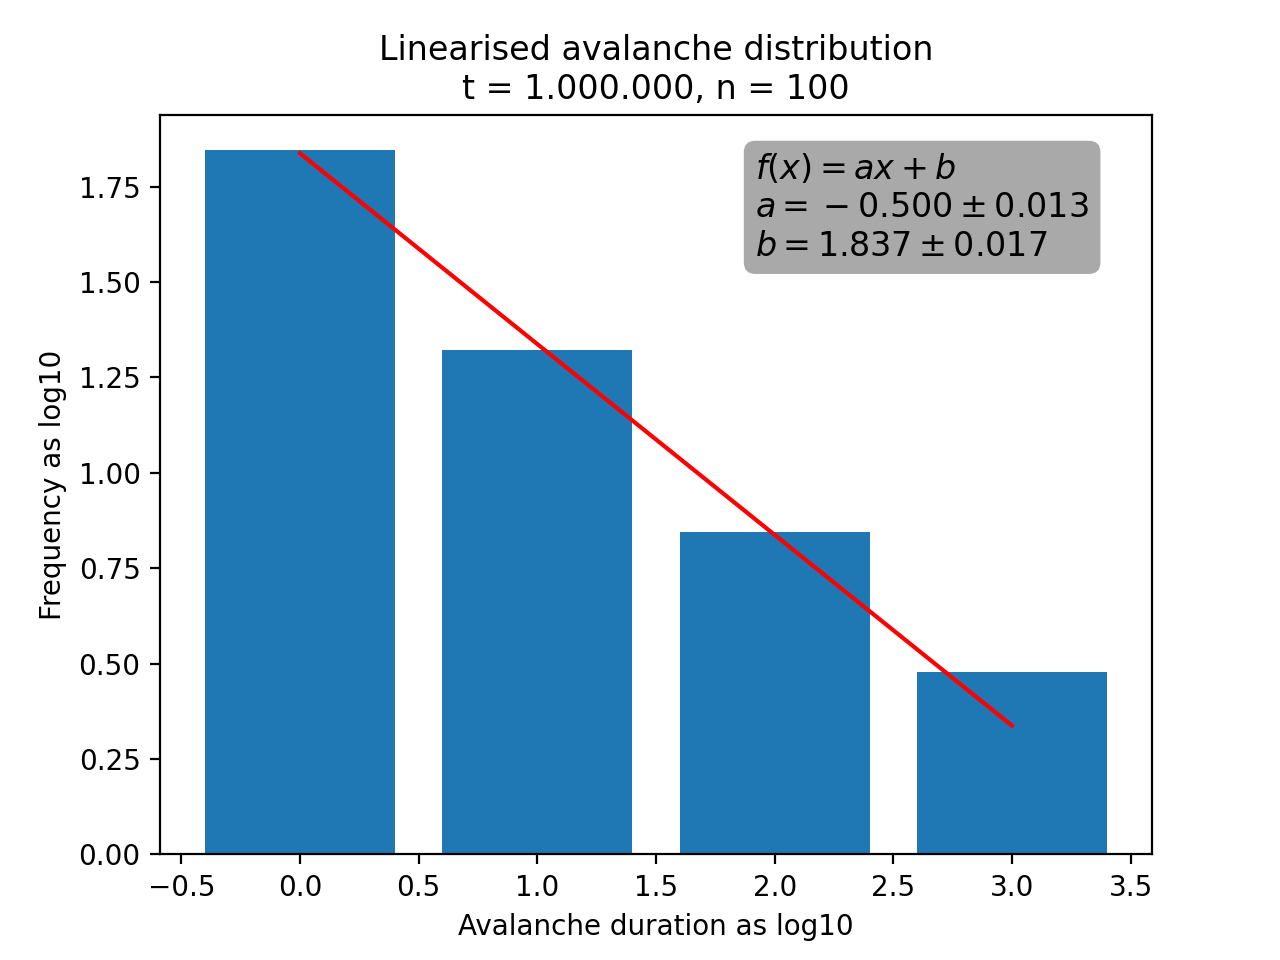
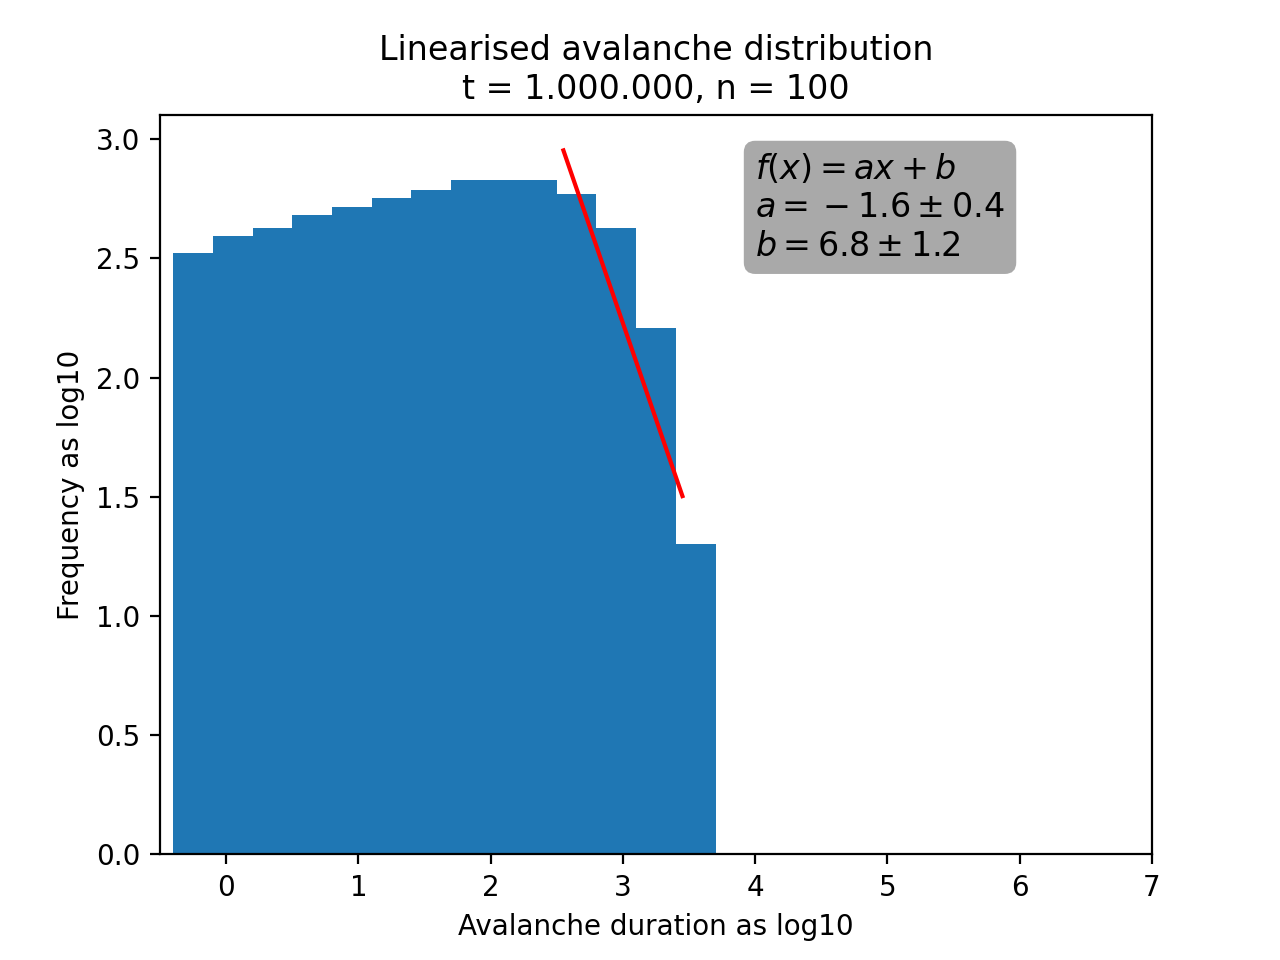
Adjust avalanche definition

diff --git a/baksneppen/model.py b/baksneppen/model.py
@@ -6,13 +6,16 @@ import numpy as np
 from random import random, randint
 
 DEFAULT_SIZE = 16
+DEFAULT_LAMBDA = 0.6
 
 
 class BakSneppenModel:
     """The evolution model of Bak and Sneppen"""
 
-    def __init__(self, size=None):
+    def __init__(self, size=None, critical_lambda=None):
         """Initialise the model"""
+        self.critical_lambda = critical_lambda if critical_lambda is not None \
+                               else DEFAULT_LAMBDA
         self.size = size if size is not None else DEFAULT_SIZE
         self.set_up_simulation()
 
@@ -38,10 +41,12 @@ class BakSneppenModel:
 
         if least_fitness > self.least_fitness:
             self.least_fitness = least_fitness
+
+        if least_fitness < self.critical_lambda:
+            self.avalanche_duration += 1
+        else:
             self.avalanche_durations.append(np.log10(self.avalanche_duration))
             self.avalanche_duration = 1
-        else:
-            self.avalanche_duration += 1
 
         if self.updatemode == 1:
             left_neighbour = weakling_index - 1
@@ -90,5 +95,7 @@ class BakSneppenModel:
             "system size": self.size,
             "species": self.species,
             "fitness over time": np.array(self.fitness_over_time),
-            "avalanche durations": np.array(self.avalanche_durations)
+            # exclude the first value of the avalanches
+            # as it is not representative
+            "avalanche durations": np.array(self.avalanche_durations[1:])
         }

diff --git a/plot_powerlaw.py b/plot_powerlaw.py
@@ -5,7 +5,7 @@ import matplotlib.pyplot as plt
 
 from uncertainties import ufloat
 
-BINS = np.arange(0, 5, 1)
+BINS = np.arange(0, 6, 0.3)
 
 
 def linfunc(x, a, b):
@@ -19,21 +19,25 @@ if __name__ == "__main__":
     ax = fig.add_subplot(111)
 
     count, _ = np.histogram(avalanches, BINS)
-    params, pcov = curve_fit(linfunc, BINS[:-2], np.log10(count[:-1]))
+    nonzero_bins = BINS[np.nonzero(count)]
+    nonzero_count = count[np.nonzero(count)]
+
+    params, pcov = curve_fit(linfunc, nonzero_bins[8:], np.log10(nonzero_count[8:]))
     perr = np.sqrt(np.diag(pcov))
-    ax.bar(BINS[:-1], np.log10(count))
-    ax.plot(BINS[:-1], linfunc(BINS[:-1], *params), zorder=1, color="red")
+    ax.bar(nonzero_bins, np.log10(nonzero_count))
+    ax.plot(nonzero_bins[8:] + 0.15, linfunc(nonzero_bins[8:], *params), zorder=1, color="red")
 
     ax.set_title("Linearised avalanche distribution\nt = 1.000.000, n = 100")
     ax.set_xlabel("Avalanche duration as log10")
     ax.set_ylabel("Frequency as log10")
+    ax.set_xlim(-0.5, 7)
     a, b = ufloat(params[0], perr[0]), ufloat(params[1], perr[1])
     print(a, b)
 
     textstr = '\n'.join((
         "$f(x) = ax + b$",
-        "$a = {}$".format(str(a).replace("+/-", "\\pm")),
-        "$b = {}$".format(str(b).replace("+/-", "\\pm")),
+        "$a = {}$".format(str(a).replace("+/-", "\\pm ")),
+        "$b = {}$".format(str(b).replace("+/-", "\\pm ")),
     ))
 
     props = dict(boxstyle='round', alpha=1, color="darkgrey")

diff --git a/main.py b/main.py
@@ -10,7 +10,8 @@ try:
 except ImportError as err:
     ERRMSG = "\n".join((
         "Import Error: {}\n".format(err),
-        "Install python-tkinter if you want to use the graphical user interface.\n",
+        "Install python-tkinter if you want to use the graphical user interface.",
+        "(sudo apt-get install python3-tk).",
         "You may also run the script over the command line by adding 'nogui' " \
         "and supply the system size (-s), the update algorithm (-m) and the " \
         "number of updates (-u) as command line arguments. If no number of " \

diff --git a/baksneppen/plothelpers.py b/baksneppen/plothelpers.py
@@ -7,7 +7,7 @@ import numpy as np
 import matplotlib.gridspec as gridspec
 import matplotlib.ticker as ticker
 
-HIST_BINS = np.arange(0, 7, 1)
+HIST_BINS = np.arange(0, 7, 0.3)
 
 PLOTS = {
     "fitness": {
